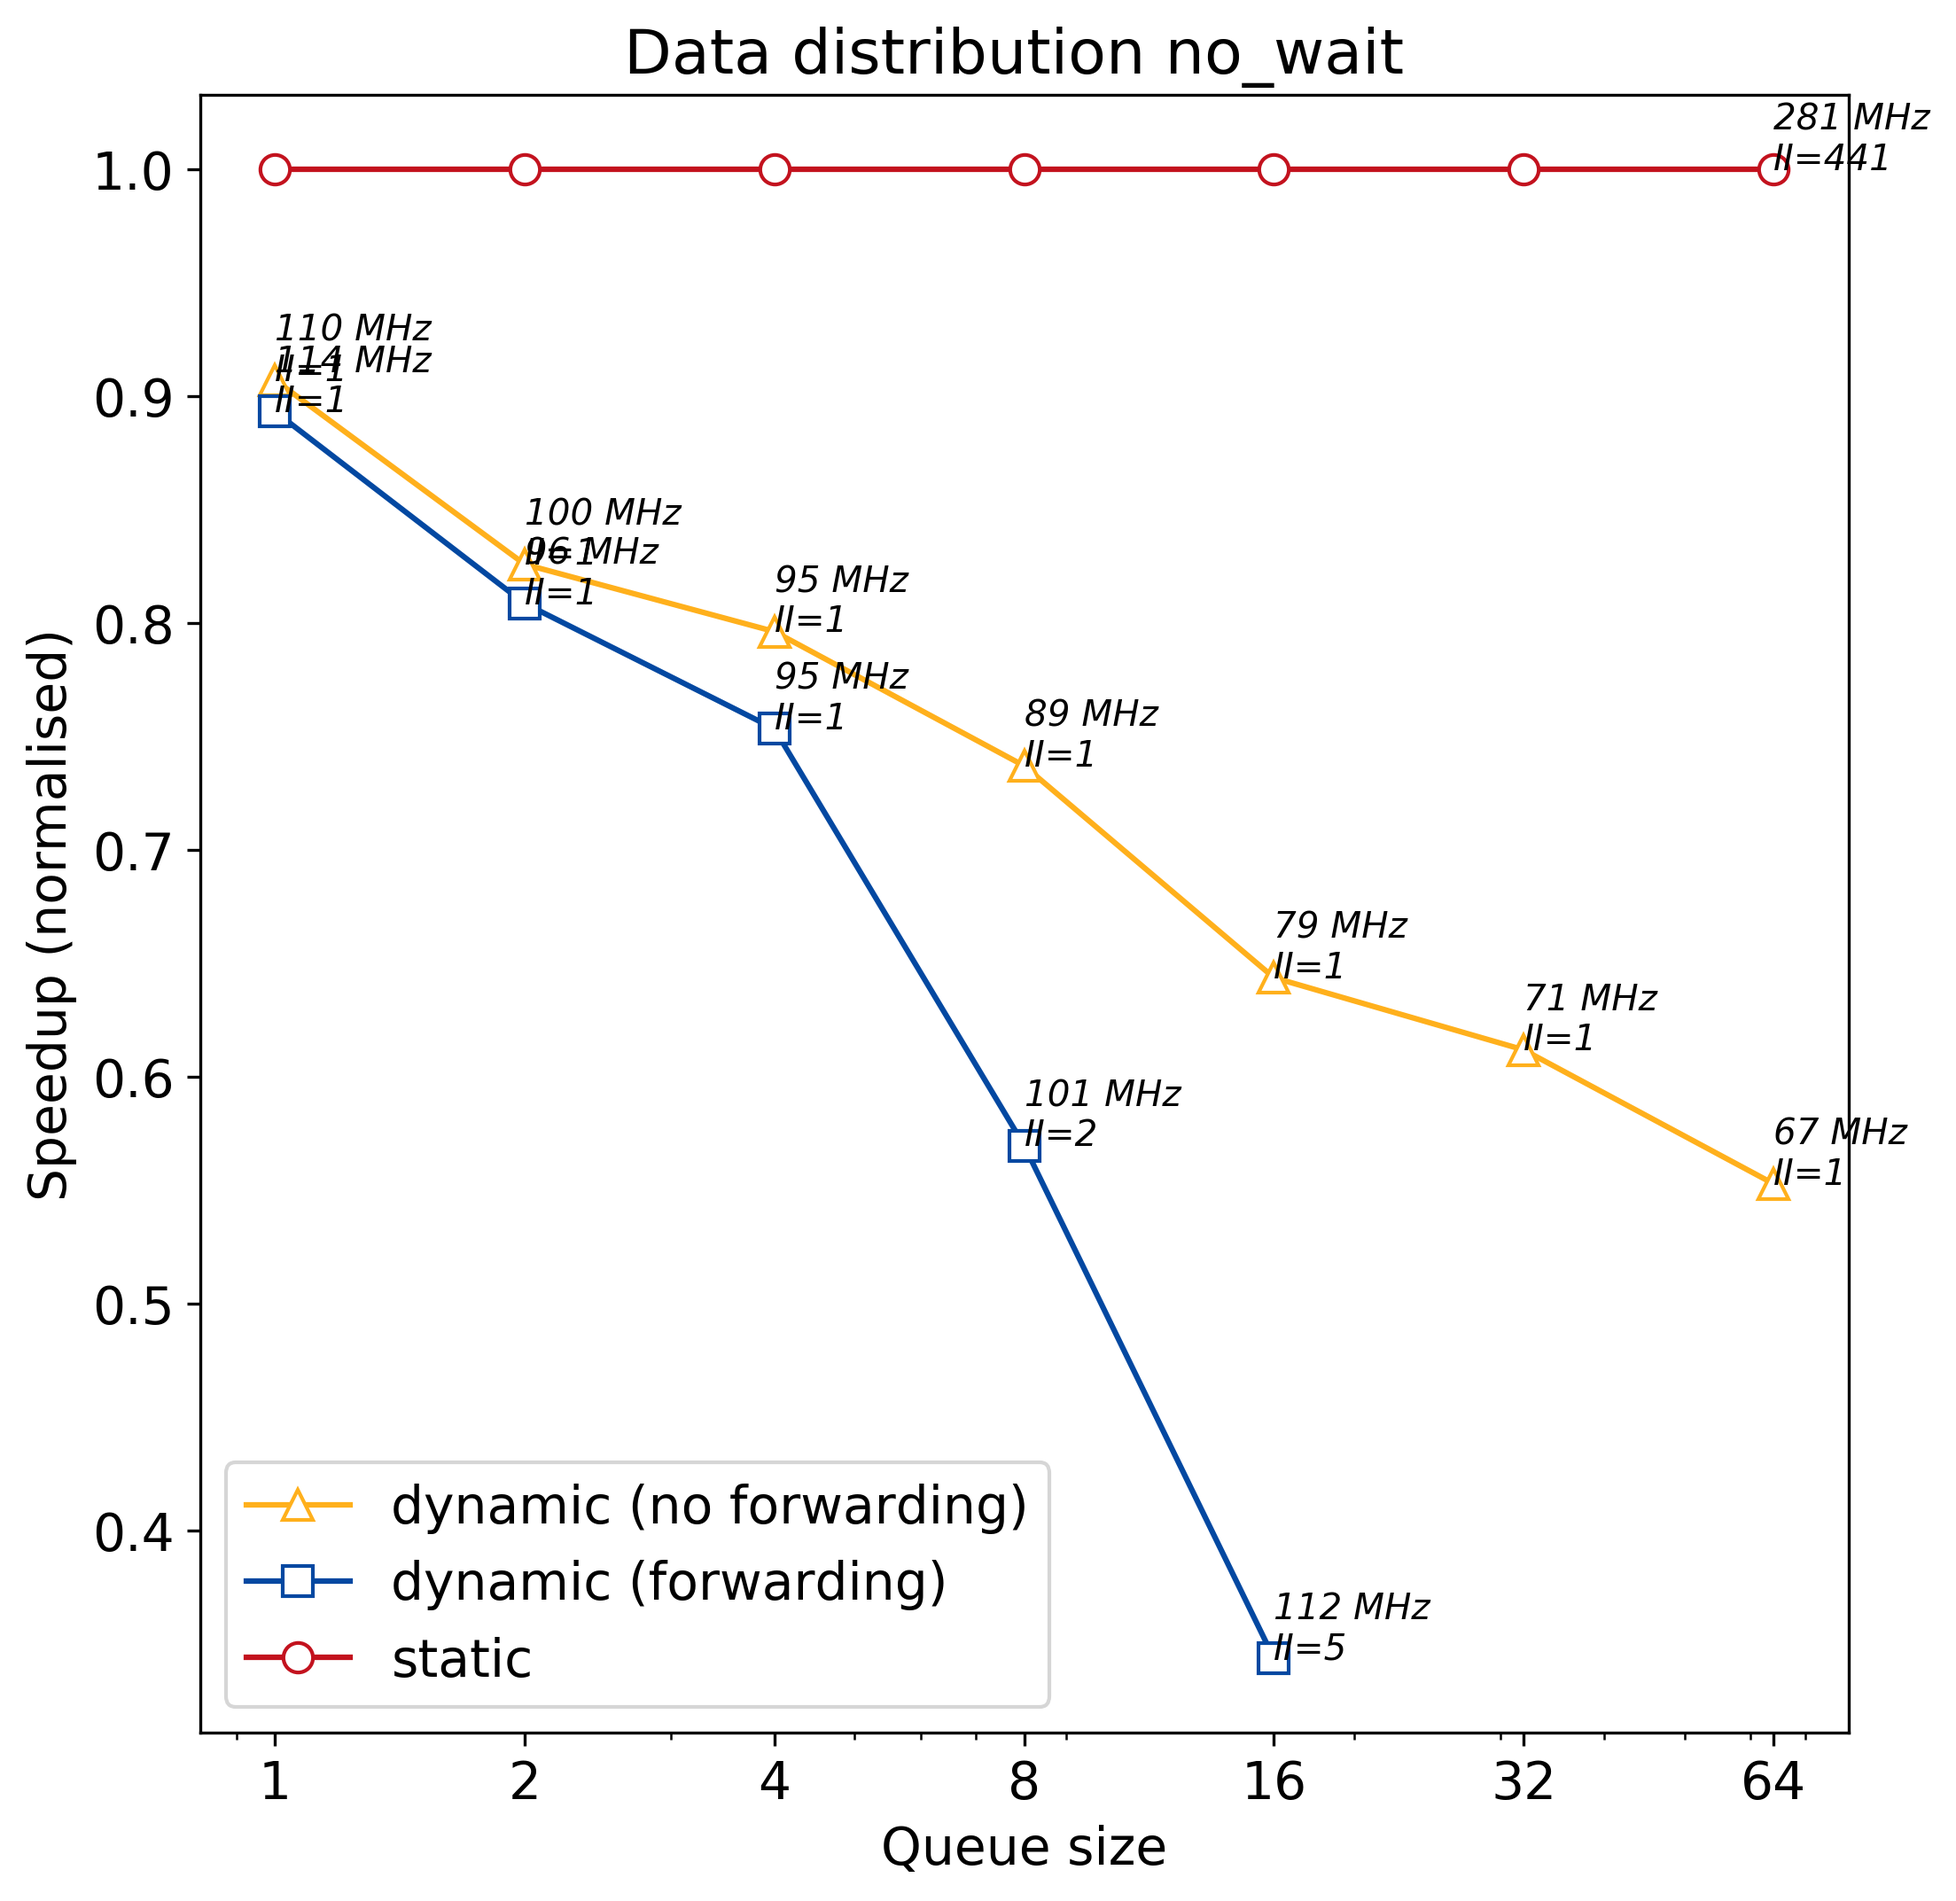
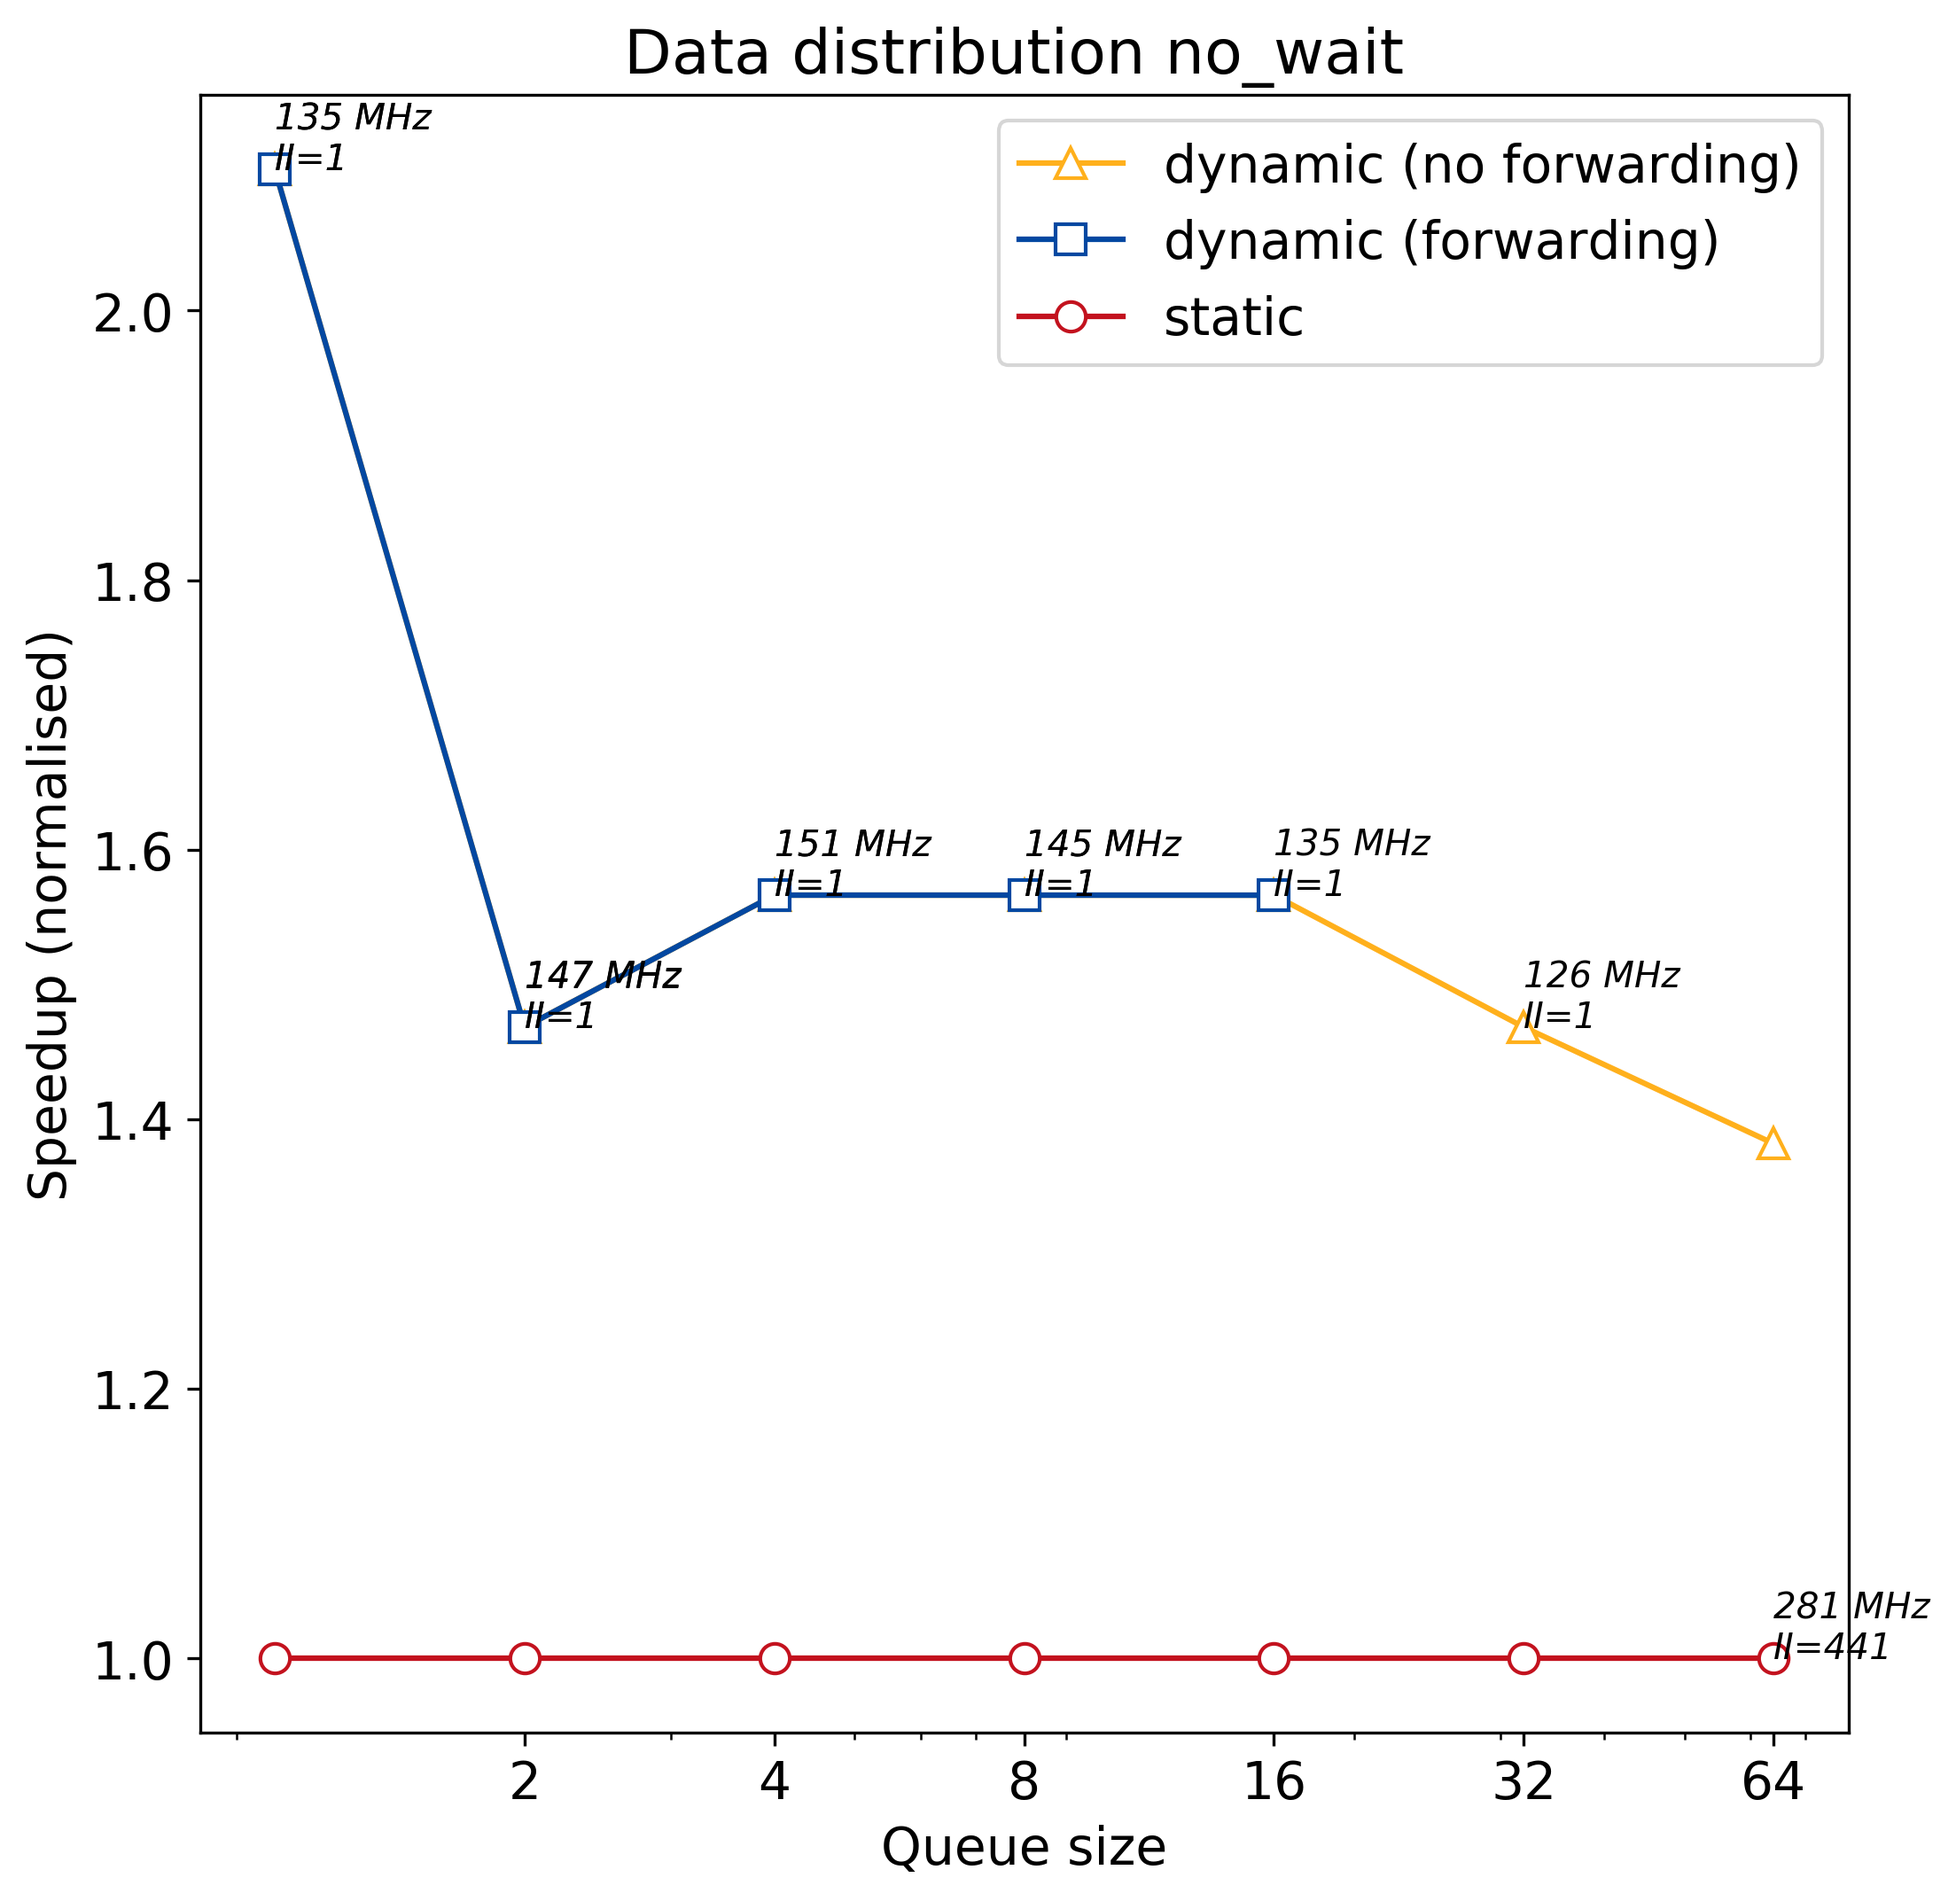
Add latest numbers.

diff --git a/vis_exp.py b/vis_exp.py
@@ -128,10 +128,9 @@ def make_plot_all_percentages(filename, relative=False, y_label='Speedup (normal
     y3 = df[f'dynamic_no_forward (q_size {Q_SIZE_DYNAMIC_NO_FORWARD})'].replace({0: np.nan})
 
     if relative:
-        static_baseline = y[0]
+        y2 = [y[k]/val for k, val in enumerate(y2)]
+        y3 = [y[k]/val for k, val in enumerate(y3)]
         y = [1 for _ in df['static']]
-        y2 = [static_baseline/val for val in y2]
-        y3 = [static_baseline/val for val in y3]
 
     # plot
     fig = plt.figure(fig_id, figsize=(8, 8))
@@ -208,7 +207,7 @@ if __name__ == '__main__':
             make_plot(csv_fname, title=f'Data distribution {distr_name} {percentage_suffix_title}')
 
 
-        ### Plot speedup vs. % data hazards
+        ## Plot speedup vs. % data hazards
         csv_file_all_percentages = f'{EXP_DATA_DIR}/{kernel}/{SUB_DIR}/{CSV_PERCENTAGES_RES_FILE}'
         if Path(csv_file_all_percentages).is_file():
             make_plot_all_percentages(csv_file_all_percentages, y_label=Y_LABEL,
